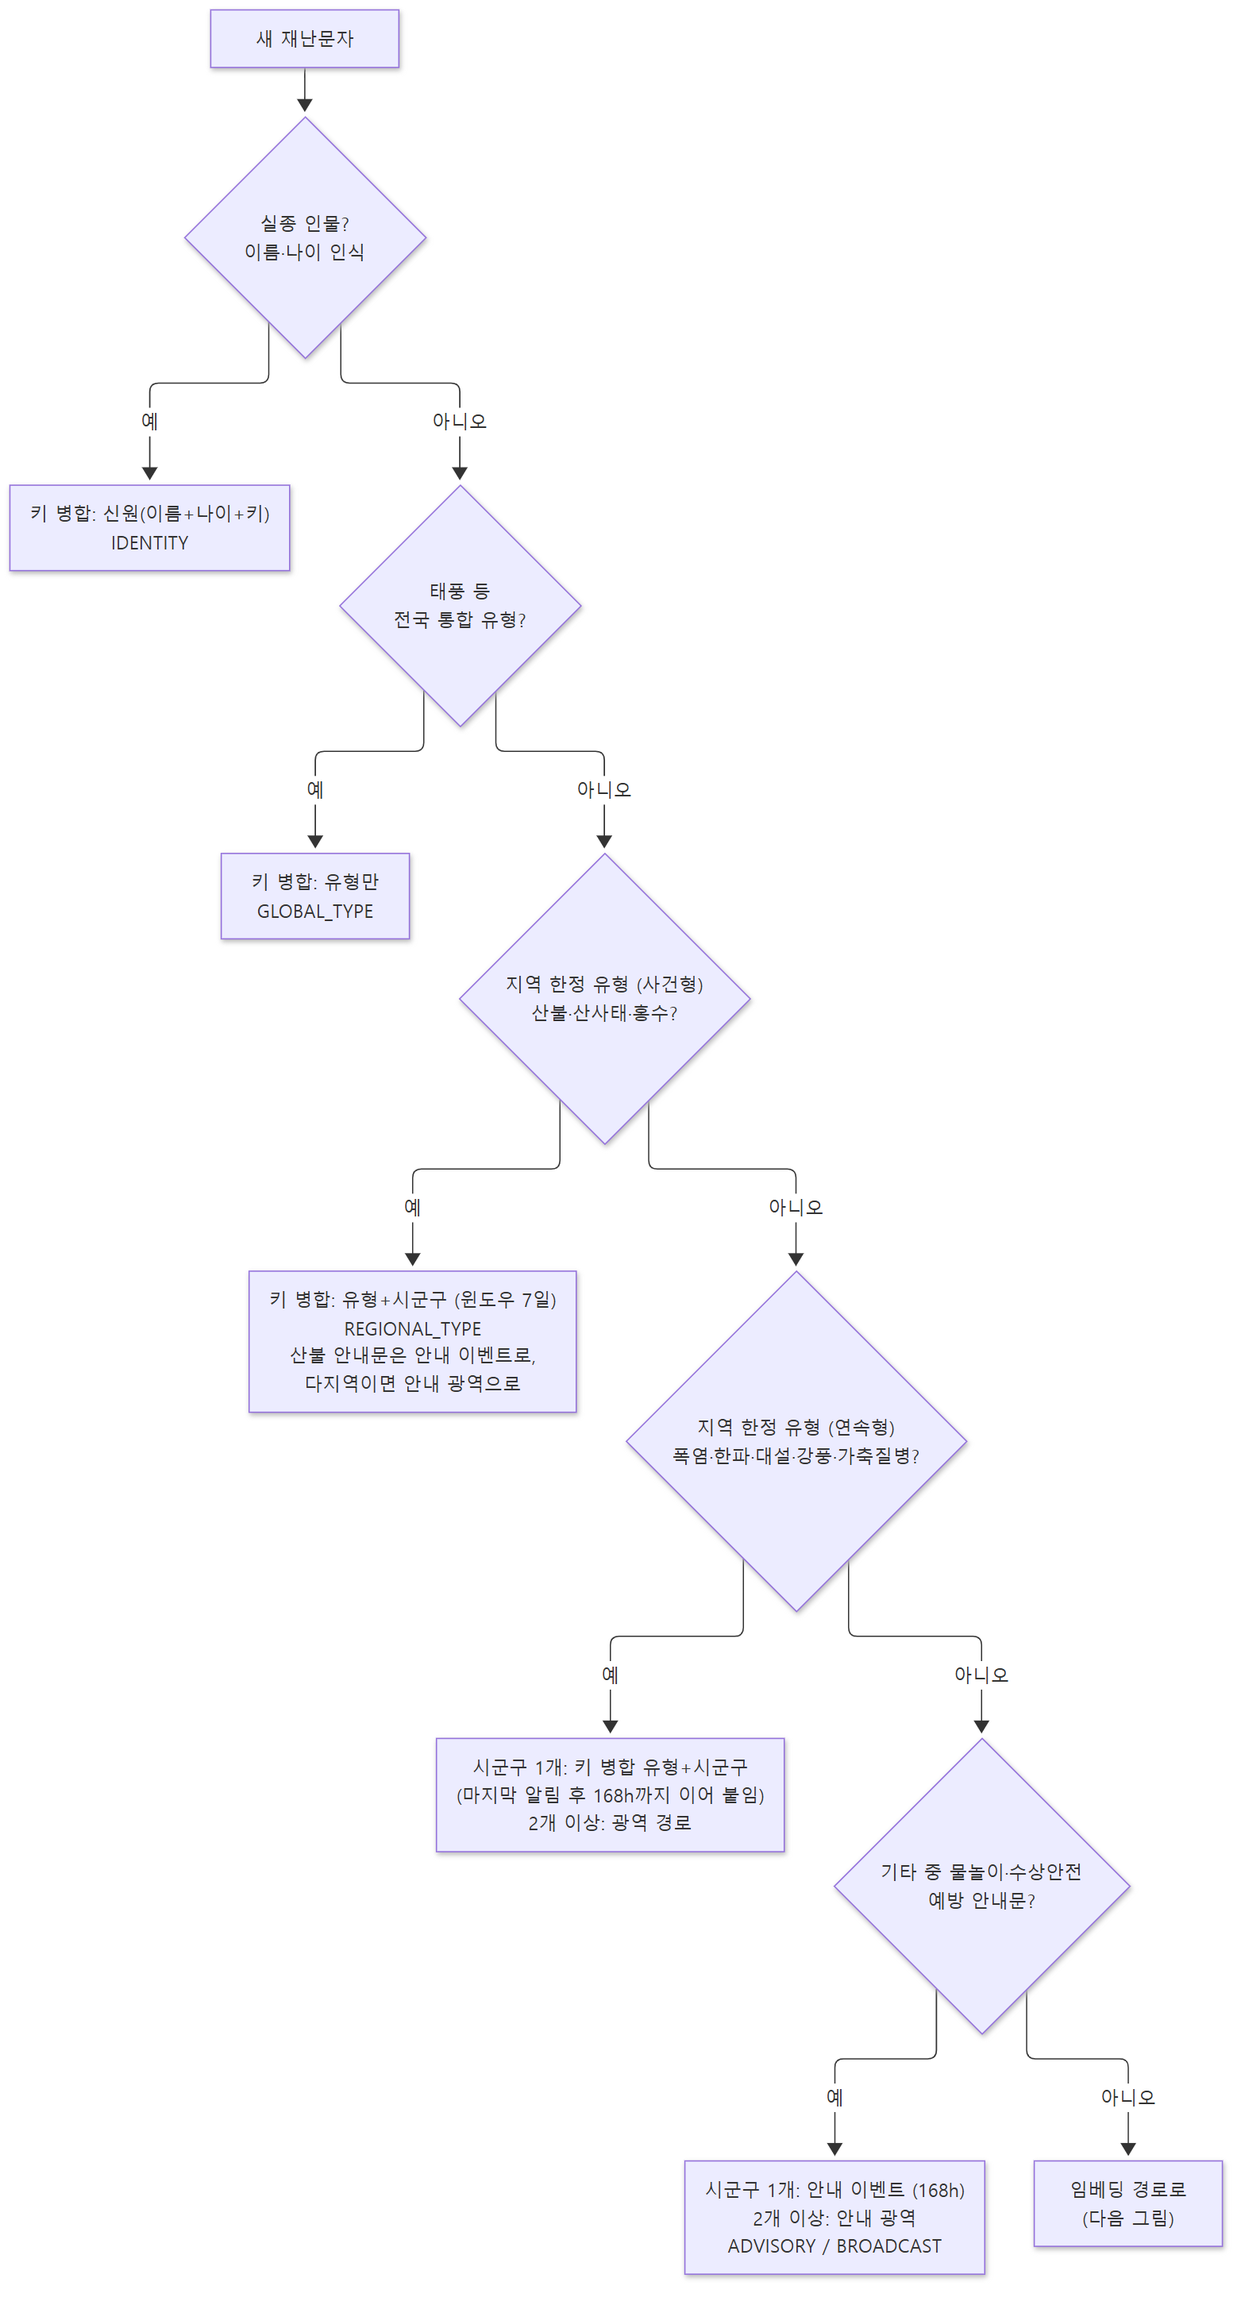
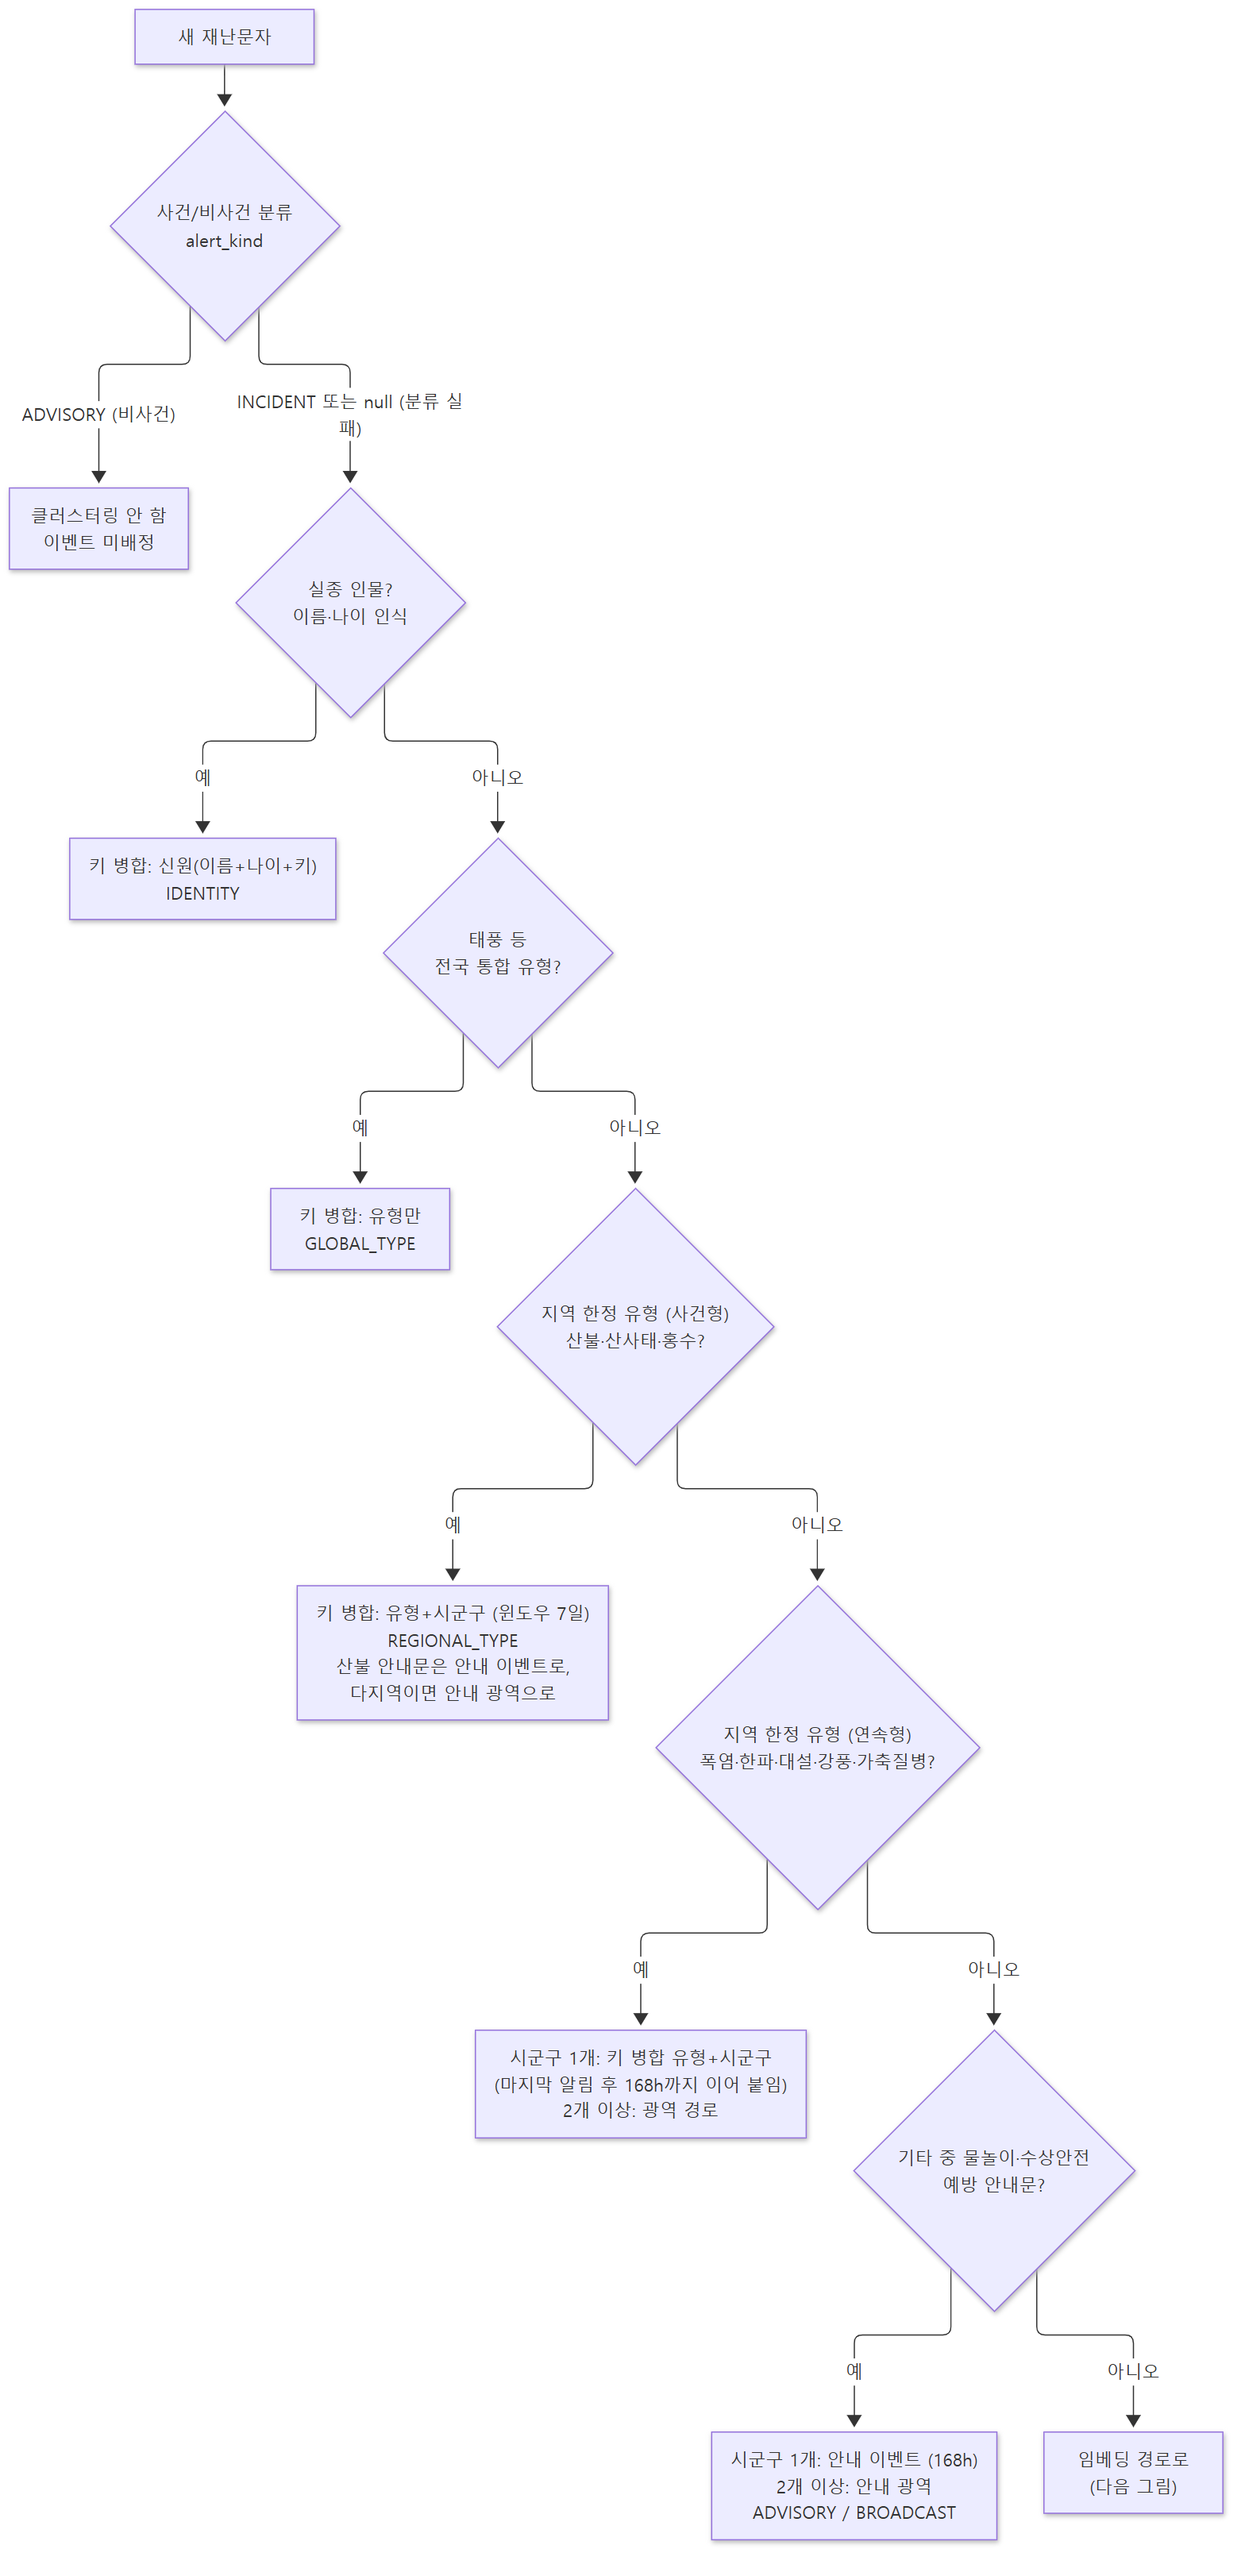
docs(event): 클러스터링 평가 문서에 적재·분류(사건/비사건) 단계를 반영한다
클러스터링 앞단에서 알림을 사건/비사건으로 분류해 비사건을 거른다는 점이
문서에 없어서, 비사건 알림이 평가에서 "이벤트 미배정"으로 빠지는 이유가
드러나지 않았다. 4.0절을 추가하고 1절 단계 대응 표·검토 의견, 2절 머리말,
단계 대응 그림과 키 병합 경로 그림에 분류 분기를 넣었다. 문서 머리에
중복으로 들어간 안내문도 하나로 정리했다.

diff --git a/docs/CLUSTERING_EVALUATION.md b/docs/CLUSTERING_EVALUATION.md
@@ -8,29 +8,29 @@
 
 ---
 
-> 평가 도구는 2026-10-19 에 두 비율(과소병합율·과병합율) 도구로 새로 작성했다. 현재 도구의 읽는 법은 [CLUSTERING_EVAL_GUIDE.md](CLUSTERING_EVAL_GUIDE.md) 를 본다. 이 문서의 검색/판정 단계 서술과 8절 이후 실측 수치는 옛 도구로 잰 값이다.
-
 ## 1. 단계 대응
 
 | RAG 단계 | 클러스터링에서의 의미 | 입력 → 출력 |
 |---|---|---|
+| 적재·분류 (RAG 앞단) | 수집한 문자를 저장하고 **사건/비사건으로 분류**해 클러스터링 대상을 거른다(4.0절) | 새 문자 → 사건·미분류는 통과, 비사건은 제외 |
 | 검색 (Retrieval) | 새 재난문자와 **연관된 문자/이벤트를 후보로 선정** | 새 문자 → 후보 이벤트 (최대 3개) |
 | 생성 (Generation) | 후보와 **묶을지 말지를 결정**. 묶으면 병합, 아니면 신규 이벤트 | 새 문자 + 후보 → 병합 / 신규 |
 | 엔드투엔드 | 최종 결과로 **여러 재난문자가 묶인 이벤트**가 나오는 것 | 문자 스트림 → 이벤트 집합 |
 
 ![단계 대응: 검색, 판정, 엔드투엔드와 실패 유형](images/clustering-eval/stage-mapping.png)
 
-### 검토 의견: 이 대응은 맞고, 세 가지를 보정해서 기록한다
+### 검토 의견: 이 대응은 맞고, 네 가지를 보정해서 기록한다
 
 1. **검색을 건너뛰는 경로가 있다.** 인물(실종), 태풍, 지역 한정 유형(산불·산사태·홍수), 에피소드형(폭염·한파·대설·강풍·가축질병), 안내성(`기타` 물놀이)은 후보를 검색하지 않고 "유형+시군구" 같은 **키**로 곧바로 이벤트를 정한다(키 병합). 이 경로에서는 검색과 판정이 하나로 합쳐져 있어서 검색 실패/판정 실패로 나누어 볼 수 없다. 단계별 분해는 **임베딩 경로(그 외 유형)에서만** 의미가 있다.
 2. **"생성 단계"는 텍스트 생성이 아니라 이진 판정이다.** 출력이 병합/신규 둘 중 하나이고 대부분 결정적 규칙(거리 임계값, 가드)이다. 생성 모델에 해당하는 것은 사고성 유형의 borderline 건에서 호출하는 LLM 폴백뿐이다.
-3. **엔드투엔드는 쌍 지표만으로 충분하지 않다.** 쌍 단위 정밀도·재현율은 최종 이벤트를 쌍으로 풀어서 본 대리 지표다. 이벤트의 모양(여러 시군구·긴 기간에 걸쳐 이어 붙은 것, 한 사건이 여러 이벤트로 쪼개진 것)은 쌍 라벨에 없으면 보이지 않는다(6절 사례).
+3. **클러스터링 앞에 적재·분류 단계가 있다.** RAG 의 "문서 수집·전처리"에 해당하며, 비사건(ADVISORY)은 여기서 걸러져 검색·판정에 들어가지 않는다. 분류가 사건을 비사건으로 잘못 거르면 그 알림은 이벤트에서 빠지고, 평가에서는 "이벤트 미배정" 쌍으로 제외된다.
+4. **엔드투엔드는 쌍 지표만으로 충분하지 않다.** 쌍 단위 정밀도·재현율은 최종 이벤트를 쌍으로 풀어서 본 대리 지표다. 이벤트의 모양(여러 시군구·긴 기간에 걸쳐 이어 붙은 것, 한 사건이 여러 이벤트로 쪼개진 것)은 쌍 라벨에 없으면 보이지 않는다(6절 사례).
 
 ---
 
 ## 2. 구현 파이프라인 (새 재난문자 1건이 들어올 때)
 
-`EventClusteringService.doCluster`가 위에서부터 판단하고, 앞 단계에서 처리되면 뒤 단계는 건너뛴다. 아래 두 그림은 한 흐름을 둘로 나눈 것이다.
+수집 직후 사건/비사건 분류(4.0절)를 통과한 알림만 `EventClusteringService.doCluster`가 위에서부터 판단하고, 앞 단계에서 처리되면 뒤 단계는 건너뛴다. 아래 두 그림은 한 흐름을 둘로 나눈 것이다.
 
 **① 키 병합 경로** — 본문을 보지 않고 키가 같으면 병합하는 분기(위에서부터 판단, 앞에서 처리되면 건너뜀)
 
@@ -74,6 +74,11 @@
 ---
 
 ## 4. 단계별 구현과 지표
+
+### 4.0 적재·분류 단계
+- **구현**: `DisasterFetchScheduler`가 공공데이터 응답을 파싱해 새 알림을 저장(`alertService.saveData`)한 뒤, 알림마다 번역 → FCM 트리거 → **사건/비사건 분류**(`AlertKindService.classifyAndSave`, LLM few-shot) → 이벤트 클러스터링 → cross-region 순으로 이어서 실행한다. 분류 결과는 `disaster_alert.alert_kind`(`INCIDENT`·`ADVISORY`)에 저장한다.
+- **클러스터링과의 관계**: `ADVISORY`(비사건)는 이벤트를 만들지도 기존 이벤트에 들어가지도 않는다. `INCIDENT`와 분류 실패(`null`)는 클러스터링한다(기준은 `CLUSTERING_CRITERIA.md` 2절). 분류가 실패해도 예외를 삼켜 수집·클러스터링을 막지 않는다.
+- **지표**: 평가 도구는 이 단계를 따로 재지 않는다. 다만 비사건 알림은 이벤트에 배정되지 않으므로, 그 알림이 든 라벨 쌍은 평가에서 **"이벤트 미배정"으로 제외**되고 건수만 리포트에 적힌다(`CLUSTERING_EVAL_GUIDE.md`). 분류 자체의 정확도는 이 도구의 범위 밖이다.
 
 ### 4.1 검색 단계
 - **구현**: `DisasterEventRepository.findTopCandidates` — 같은 시군구(앞 5자리) footprint 교집합, 마지막 알림이 윈도우(168h) 안, 광역·안내 이벤트 제외, 이벤트별 최소 코사인 거리 오름차순 상위 3개. 사고성 유형은 `findTopAdjacentCandidates`로 `region_adjacency` 이웃 시군구의 이벤트도 추가 조회한다(조회 윈도우 48h, 후보 이벤트 첫 알림 72h 이내 등 가드 포함).
